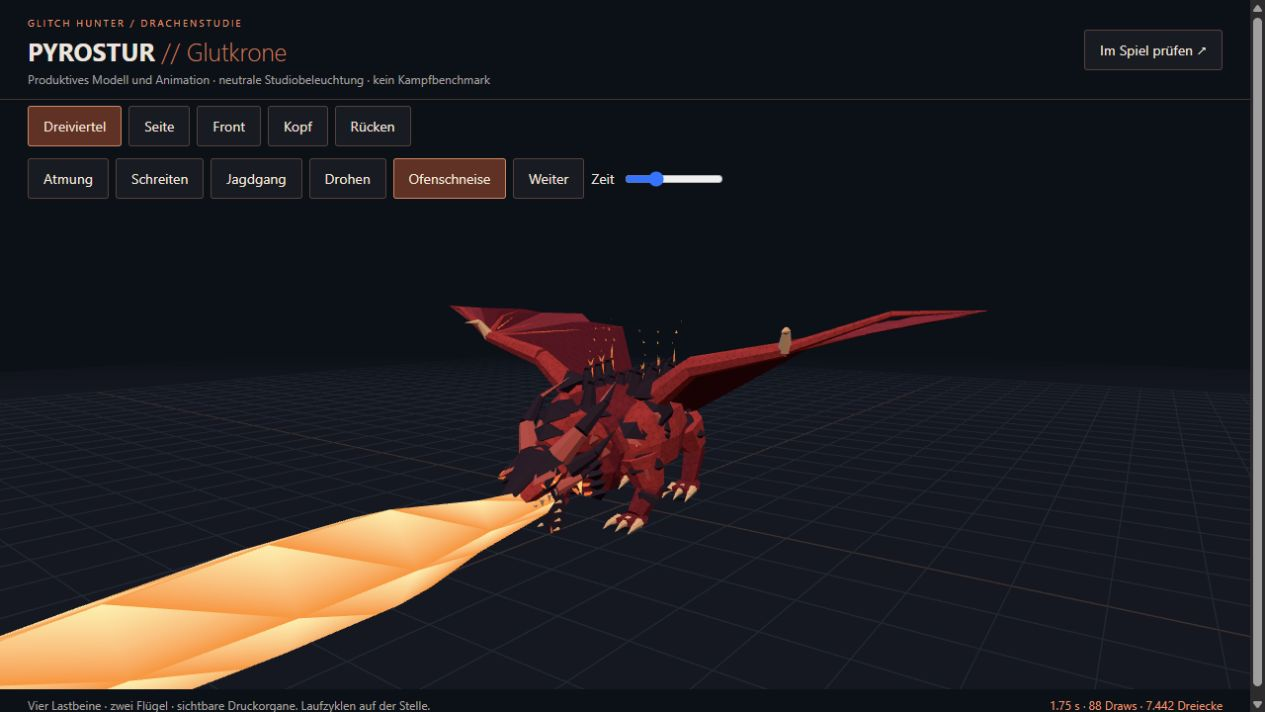
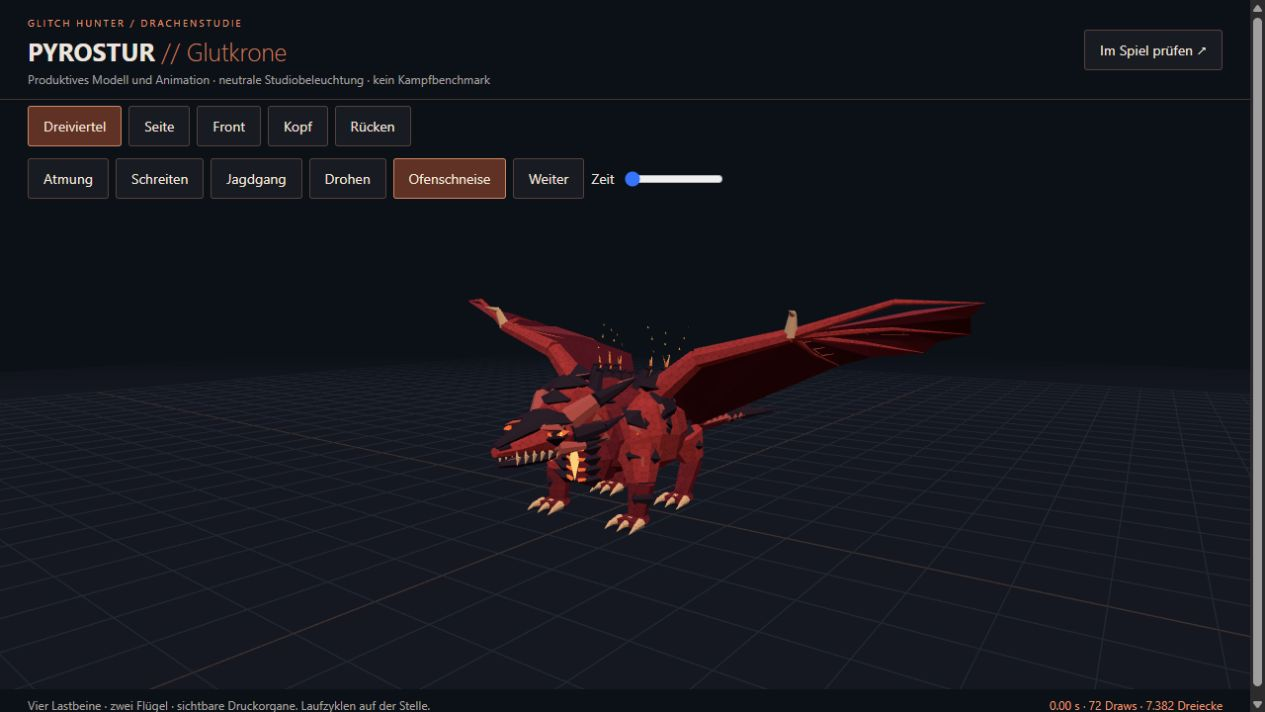
Preserve shared status poses and batch dragon surface colours

Changed region(s): [[0.0, 0.4017, 0.7708, 0.9888], [0.8324, 0.9888, 0.9249, 1.0], [0.4933, 0.2163, 0.5241, 0.2781]]

diff --git a/src/game/monsters/pyrosturRig.js b/src/game/monsters/pyrosturRig.js
@@ -16,14 +16,23 @@ export function buildPyrostur() {
   function joint(id, parent, x, y, z) { const n = new THREE.Group(); n.position.set(x, y, z); parent.add(n); nodes[id] = n; return n; }
   function geo(part, parent, color, g, pos = [0, 0, 0], stretch = [1, 1, 1], rot = [0, 0, 0], glow = false) {
     glow ||= color === C.hot || color === C.core;
-    const key = `${parent.uuid}/${part}/${color}/${glow}`, mk = `${part}/${color}/${glow}`;
+    // Solid colours live in vertices: several armour shades share one draw per
+    // joint. Only independently animated heat materials retain separate colours.
+    const surface = [C.hide,C.muscle].includes(color) ? 'scale' : [C.membrane,C.panel].includes(color) ? 'leather' : 'plain';
+    const mk = glow ? `${part}/${color}/true` : `${part}/${surface}`;
+    const key = `${parent.uuid}/${mk}`;
     if (!materials.has(mk)) {
-      const mat = glow ? basic({ color, side: THREE.DoubleSide }) : lambert({ color, flatShading: true, side: THREE.DoubleSide });
-      if(!glow && [C.hide,C.muscle,C.membrane,C.panel].includes(color)) dragonSurface(mat,color===C.membrane||color===C.panel);
+      const mat = glow ? basic({ color, side: THREE.DoubleSide }) : lambert({ color: '#ffffff', vertexColors: true, flatShading: true, side: THREE.DoubleSide });
+      if(!glow && surface!=='plain') dragonSurface(mat,surface==='leather');
       mat.userData.ps1.uSnapDetail.value = 2; materials.set(mk, mat);
     }
     const g2 = g.index ? g.toNonIndexed() : g;
     g2.deleteAttribute('uv');
+    if (!glow) {
+      const tint = new THREE.Color(color), colors = new Float32Array(g2.attributes.position.count * 3);
+      for (let i=0;i<colors.length;i+=3) { colors[i]=tint.r; colors[i+1]=tint.g; colors[i+2]=tint.b; }
+      g2.setAttribute('color',new THREE.BufferAttribute(colors,3));
+    }
     g2.applyMatrix4(new THREE.Matrix4().compose(new THREE.Vector3(...pos), new THREE.Quaternion().setFromEuler(new THREE.Euler(...rot)), new THREE.Vector3(...stretch)));
     if (g2 !== g) g.dispose();
     if (!batches.has(key)) batches.set(key, { parent, part, mat: materials.get(mk), list: [] });
@@ -151,7 +160,10 @@ export function buildPyrostur() {
     const innerGeometry=new THREE.BufferGeometry();
     innerGeometry.setAttribute('position',new THREE.BufferAttribute(new Float32Array(81),3).setUsage(THREE.DynamicDrawUsage));
     innerGeometry.setAttribute('normal',new THREE.BufferAttribute(new Float32Array(81),3).setUsage(THREE.DynamicDrawUsage));
-    const innerMesh=new THREE.Mesh(innerGeometry,materials.get(`${id}/${C.membrane}/false`));
+    const innerTint=new THREE.Color(C.membrane),innerColors=new Float32Array(27*3);
+    for(let i=0;i<innerColors.length;i+=3){innerColors[i]=innerTint.r;innerColors[i+1]=innerTint.g;innerColors[i+2]=innerTint.b;}
+    innerGeometry.setAttribute('color',new THREE.BufferAttribute(innerColors,3));
+    const innerMesh=new THREE.Mesh(innerGeometry,materials.get(`${id}/leather`));
     innerMesh.frustumCulled=false; body.add(innerMesh); partMeshes[id].push(innerMesh);
     innerSails.push({s,w,elbow,wrist,geometry:innerGeometry,tip:tips.at(-1),points:Array.from({length:5},()=>new THREE.Vector3()),center:new THREE.Vector3(),matrix:new THREE.Matrix4()});
     // Distinct four weightbearing legs. Wings never touch the floor at rest.

diff --git a/tests/unit/pyrosturMotion.test.js b/tests/unit/pyrosturMotion.test.js
@@ -2,6 +2,8 @@ import { describe, expect, it } from 'vitest';
 import * as THREE from 'three';
 import { buildPyrostur } from '../../src/game/monsters/pyrosturRig.js';
 import { posePyrosturPresence } from '../../src/game/monsters/pyrosturMotion.js';
+import { pyrostur } from '../../src/game/monsters/pyrostur.js';
+import { make, DT } from './p3helpers.js';
 const feet = ['ankleForeL', 'ankleForeR', 'ankleL', 'ankleR'];
 const snapshot = (rig, id) => { rig.root.updateMatrixWorld(true); return new THREE.Box3().setFromObject(rig.nodes[id], true).min.y; };
 function pose(rig, speed, phase, time = 0) {
@@ -37,5 +39,33 @@ describe('Pyrostur grounded quadruped presence', () => {
     expect(rig.nodes.wingL.quaternion.angleTo(wing)).toBeLessThan(.00001);
     expect(rig.nodes.forelegL.quaternion.angleTo(fore)).toBeGreaterThan(.2);
   });
+  it('preserves the production feeding pose instead of replacing it with neutral presence', () => {
+    const { m } = make(pyrostur, 'fressen');
+    m.time = .2; m._visuals(DT);
+    expect(m._tgt.neck).toBeGreaterThan(.4);
+    expect(m._tgt.head).toBeGreaterThan(25);
+    expect(m._tgt.bodyPitch).toBeGreaterThan(5);
+    expect(m.nodes.head.rotation.x).toBeGreaterThan(0);
+    m.state = 'combat'; m._visuals(DT);
+    expect(m._tgt.neck).toBeLessThan(.1);
+    expect(m._tgt.head).toBeLessThan(5);
+  });
+  it('layers poison, scald, stink and rust reactions over the actual quadruped gait', () => {
+    const sample = status => {
+      const { m } = make(pyrostur); m.time = .2; m.gait = .37; m.vel.set(0, 0, 3);
+      if (status) m.st[status] = 5;
+      m._visuals(DT); return m._tgt;
+    };
+    const base = sample();
+    for (const [status, channels] of [
+      ['poisonT', ['neck', 'head', 'jaw']],
+      ['scaldT', ['bodyRoll', 'bodyY', 'tailYaw']],
+      ['stink', ['headYaw', 'head', 'neck']],
+      ['rustT', ['neck', 'tailYaw']],
+    ]) {
+      const affected = sample(status);
+      for (const key of channels) expect(Math.abs(affected[key] - base[key]), `${status}/${key}`).toBeGreaterThan(.001);
+      expect(Math.abs(affected.foreL) + Math.abs(affected.hindL), status + ' still walks on four legs').toBeGreaterThan(1);
+    }
+  });
 });
-

diff --git a/src/game/monsters/pyrostur.js b/src/game/monsters/pyrostur.js
@@ -153,6 +153,7 @@ export const pyrostur = {
   cueParts: ['chest', 'valve'], cueIntensity: .35,
   walk: 4.4, run: 8.2, turn: 1.5, detect: 34, prefer: 3.5,
   drops: ['pyrostur_schuppe', 'pyrostur_kesselsack', 'pyrostur_fluegel', 'pyrostur_rubin'],
+  poseDefaults: REST, locomotionPose: posePyrosturPresence,
   build: buildPyrostur, stamina: true, flinchDmg: 1800, chainMax: 2, teachAttack: uppercut.id,
   recoverAfter: () => .6,
   parts: [
@@ -203,7 +204,6 @@ export const pyrostur = {
   poseHook(m, p) {
     for (const key of Object.keys(REST)) if (!Number.isFinite(p[key])) p[key] = REST[key];
     if (!m.attack) {
-      for (const key of ['foreKneeL', 'foreKneeR', 'foreAnkleL', 'foreAnkleR', 'kneeL', 'kneeR', 'ankleL', 'ankleR']) p[key] = 0;
       if (m.state === 'dead' || m.sleeping || m.stunT > 0 || m.trapped || m.blind) return;
       if (m.state === 'notice' || m.state === 'enrage') {
         const rise = Math.sin(Math.min(1, m.stateT / 1.4) * Math.PI);
@@ -212,7 +212,6 @@ export const pyrostur = {
         return;
       }
       if (m.stagT > 0 || m.tired) { p.bodyY = -.5; p.head = 10; p.neck = 0; p.foreL = p.foreR = -5; p.wing = 8; return; }
-      posePyrosturPresence(m, p);
     }
   },
   onDamage(m, res) {

diff --git a/src/game/monsters/monster.js b/src/game/monsters/monster.js
@@ -1263,7 +1263,8 @@ export class Monster {
     if (this.minor && this._cullMinor()) return;
     const p = this.pose;
     const target = this._tgt;
-    for (const k in MREST) target[k] = MREST[k];
+    const defaults = this.def.poseDefaults ?? MREST;
+    for (const k in defaults) target[k] = defaults[k];
     let tele = null;
     if (!this.attack && this._fpKeys?.size) { for (const k of this._fpKeys) this.ctx.fx.clearMarker?.(k); this._fpKeys.clear(); }
     const spd = Math.hypot(this.vel.x, this.vel.z);
@@ -1341,6 +1342,9 @@ export class Monster {
       target.bodyY = -Math.abs(Math.cos(g4)) * 0.08 * s + Math.sin(this.time * 2) * 0.02;
       target.tailYaw = Math.sin(g4) * 8 * s + Math.sin(this.time * 1.3) * 3;
       target.head = Math.sin(this.time * 1.7) * 3;
+      // A species may supply its base gait; shared injuries/status reactions
+      // still layer on top, and feeding/death/CC keep their dedicated branches.
+      this.def.locomotionPose?.(this, target);
       if (this.limping) {
         // hobbling: one side weak, body sags, head hangs low, drool
         target.bodyPitch = 6; target.head += 14; target.neck += 0.1;

diff --git a/tests/unit/pyrostur.test.js b/tests/unit/pyrostur.test.js
@@ -12,7 +12,7 @@ describe('Pyrostur boiler apex', () => {
   it('has a complete grounded, batched rig and aligned accessible counter targets', () => {
     const rig = buildPyrostur(); rig.root.updateMatrixWorld(true);
     const meshes = []; rig.root.traverse((o) => { if (o.isMesh) meshes.push(o); });
-    expect(meshes.length).toBeLessThanOrEqual(110); // six independent limbs, batched armor and sail panels
+    expect(meshes.length).toBeLessThanOrEqual(75); // six independent limbs, vertex-colour batched armor and sail panels
     expect(meshes.reduce((n, mesh) => n + mesh.geometry.attributes.position.count / 3, 0)).toBeLessThanOrEqual(15000);
     const { m } = make(pyrostur);
     for (const id of ['chest', 'valve']) {

diff --git a/tests/unit/pyrosturRig.test.js b/tests/unit/pyrosturRig.test.js
@@ -33,7 +33,7 @@ describe('Pyrostur elder silhouette and articulation', () => {
     }
     let meshes = 0, triangles = 0;
     r.root.traverse(o => { if (o.isMesh) { meshes++; triangles += o.geometry.index ? o.geometry.index.count / 3 : o.geometry.attributes.position.count / 3; } });
-    expect(meshes).toBeLessThanOrEqual(110); expect(triangles).toBeLessThanOrEqual(15000);
+    expect(meshes).toBeLessThanOrEqual(75); expect(triangles).toBeLessThanOrEqual(15000);
     expect(r.extra.coreMat.isMeshBasicMaterial).toBe(true);
     expect(Object.values(r.partMeshes).every(list => list.length > 0)).toBe(true);
   });
